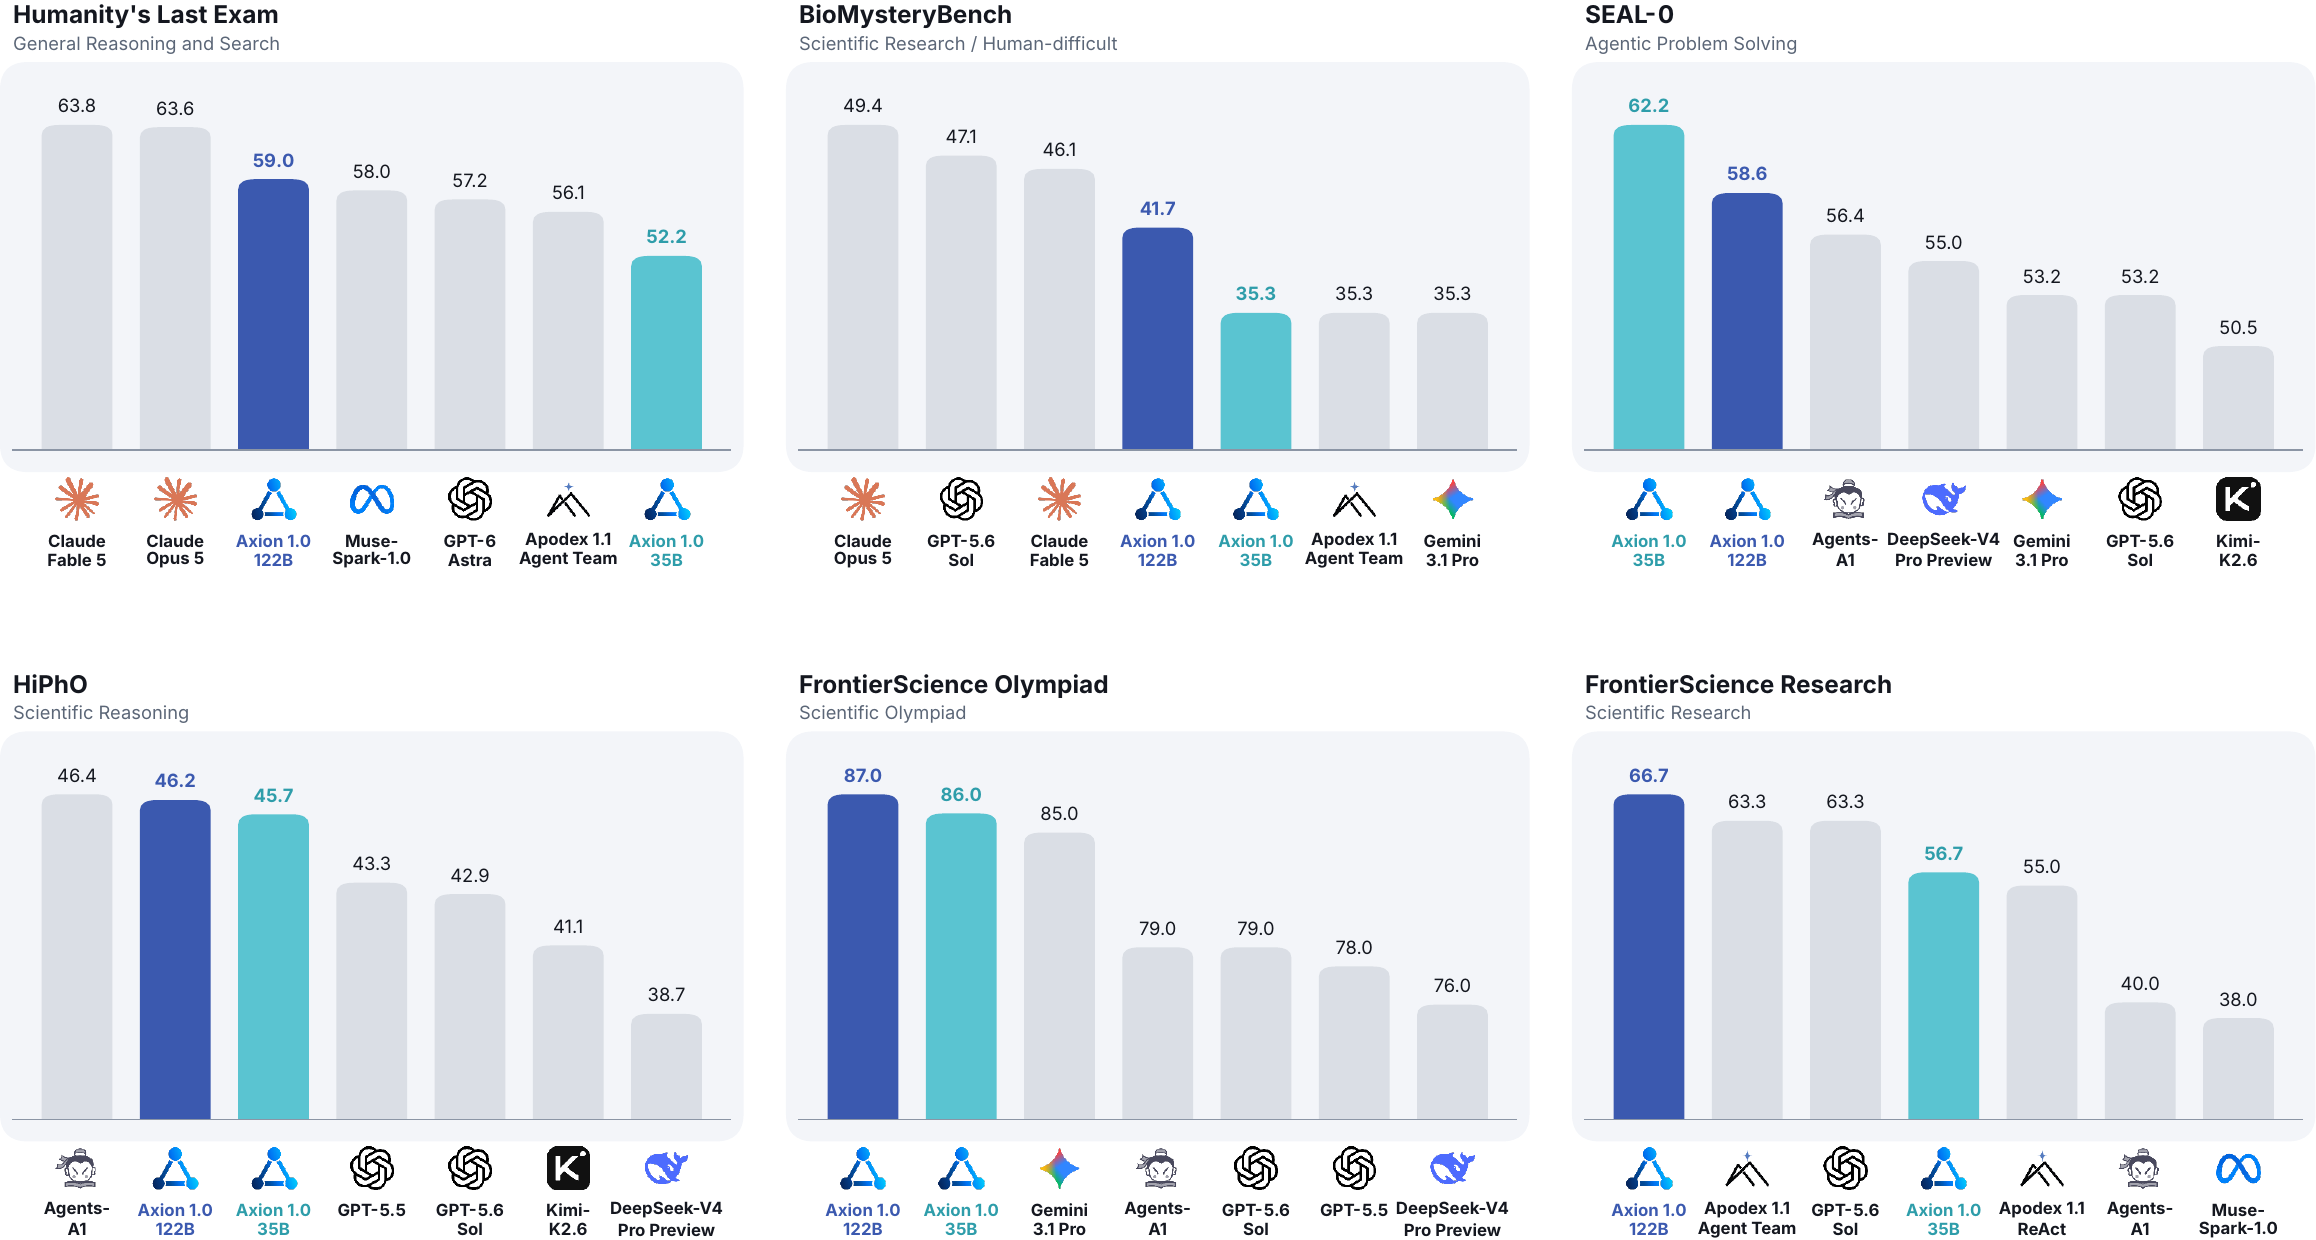
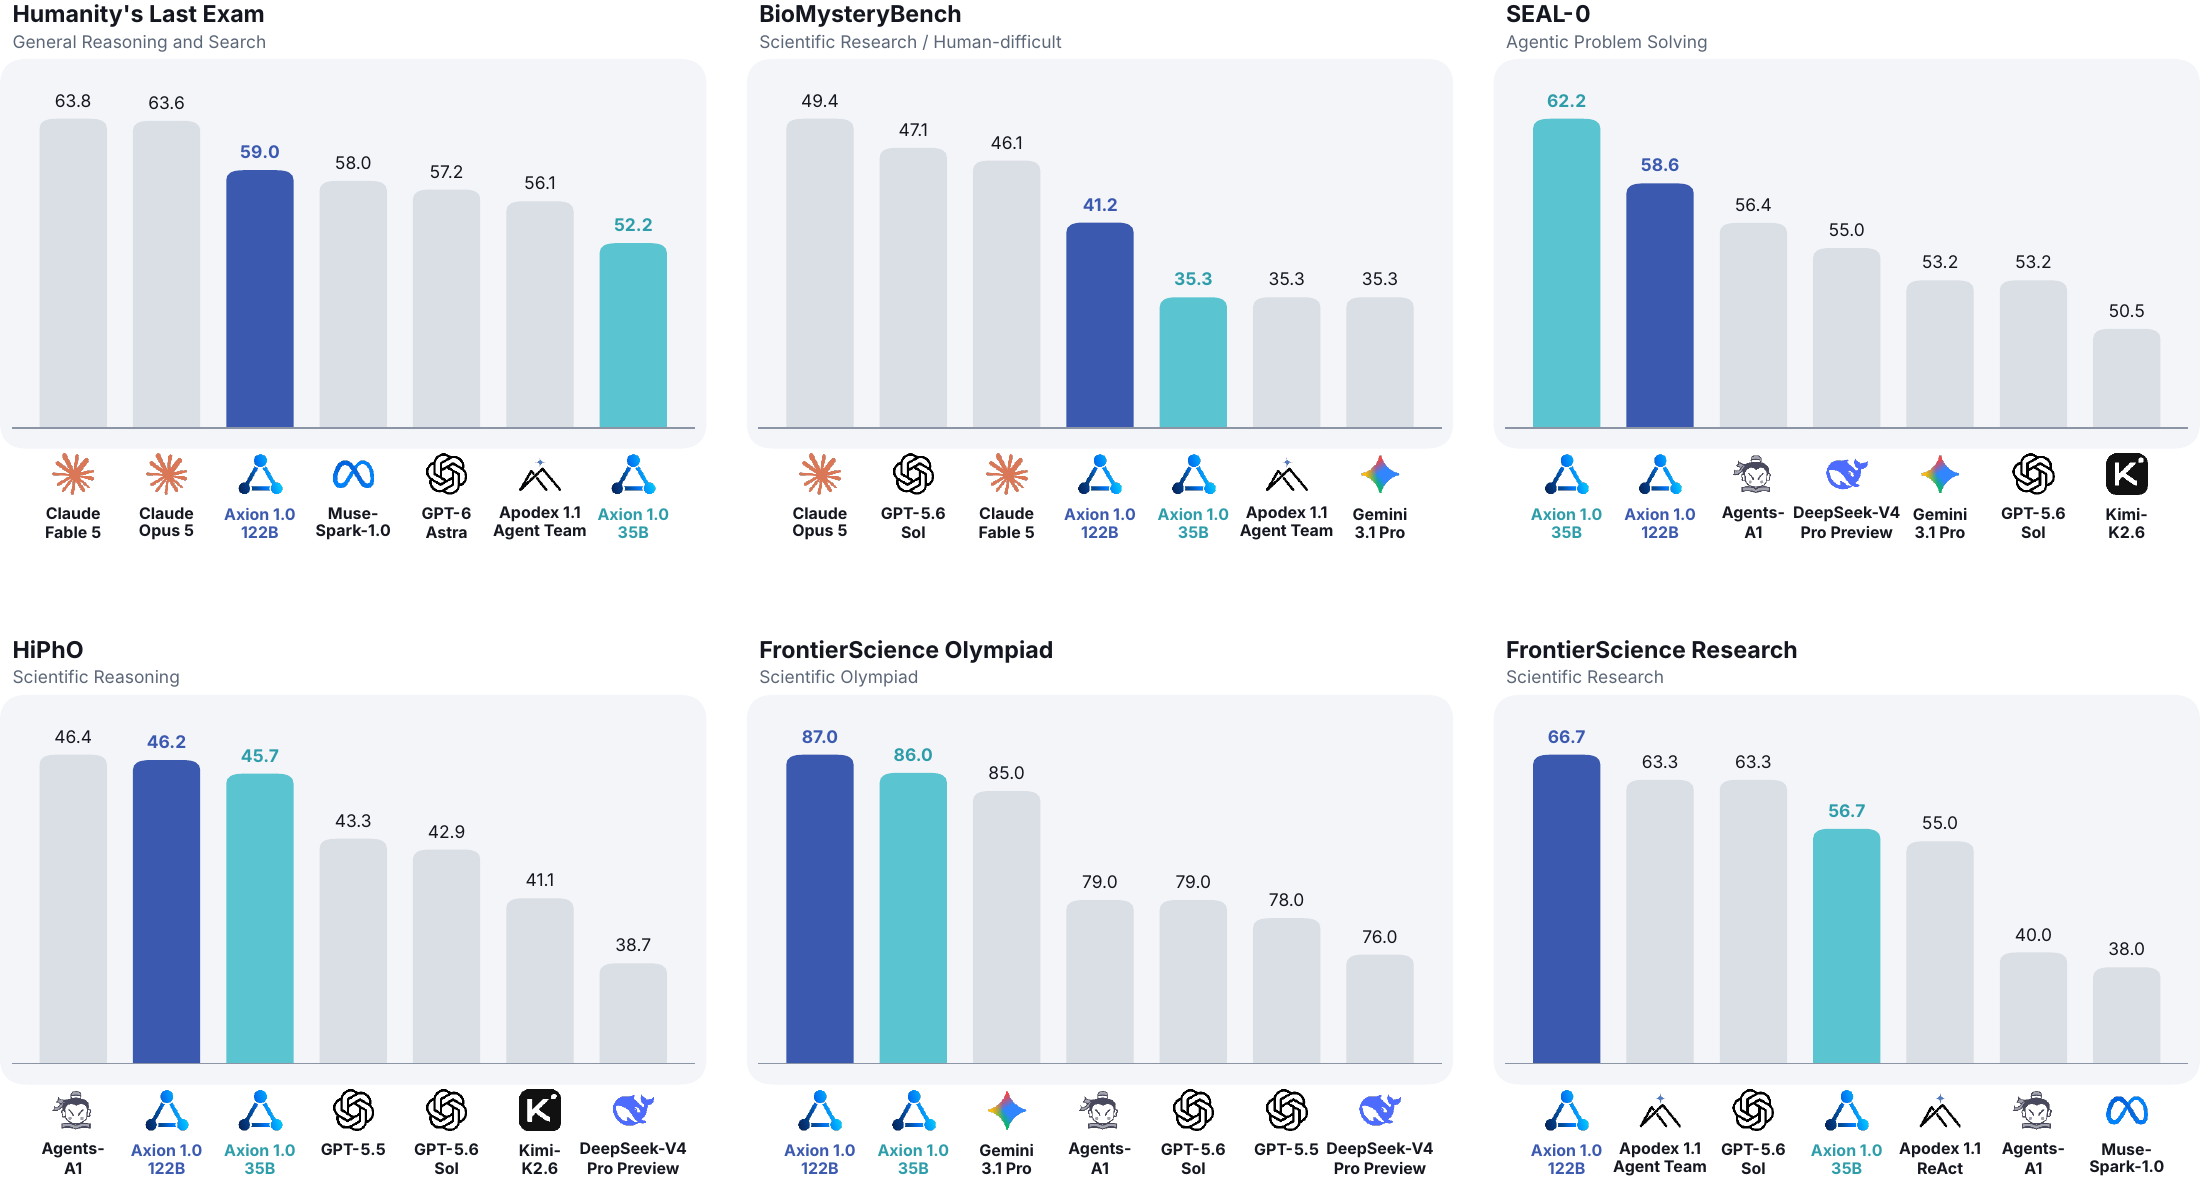
Update benchmark results

diff --git a/README.md b/README.md
@@ -57,7 +57,7 @@ Selected results from Table 1 of the
 | Gemini 3.1 Pro | 51.4 | 35.3* | 53.2* | 38.5* | 85.0* | 26.7* |
 | Claude Fable 5 | 63.8 | 46.1 | — | — | — | — |
 | **Axion 1.0-35B** | **52.2** | **35.3** | **62.2** | **45.7** | **86.0** | **56.7** |
-| **Axion 1.0-122B** | **59.0** | **41.7** | **58.6** | **46.2** | **87.0** | **66.7** |
+| **Axion 1.0-122B** | **59.0** | **41.2** | **58.6** | **46.2** | **87.0** | **66.7** |
 
 BMB denotes the human-difficult subset of BioMysteryBench; FS denotes
 FrontierScience. * marks baselines evaluated by the Axion team; other baseline
